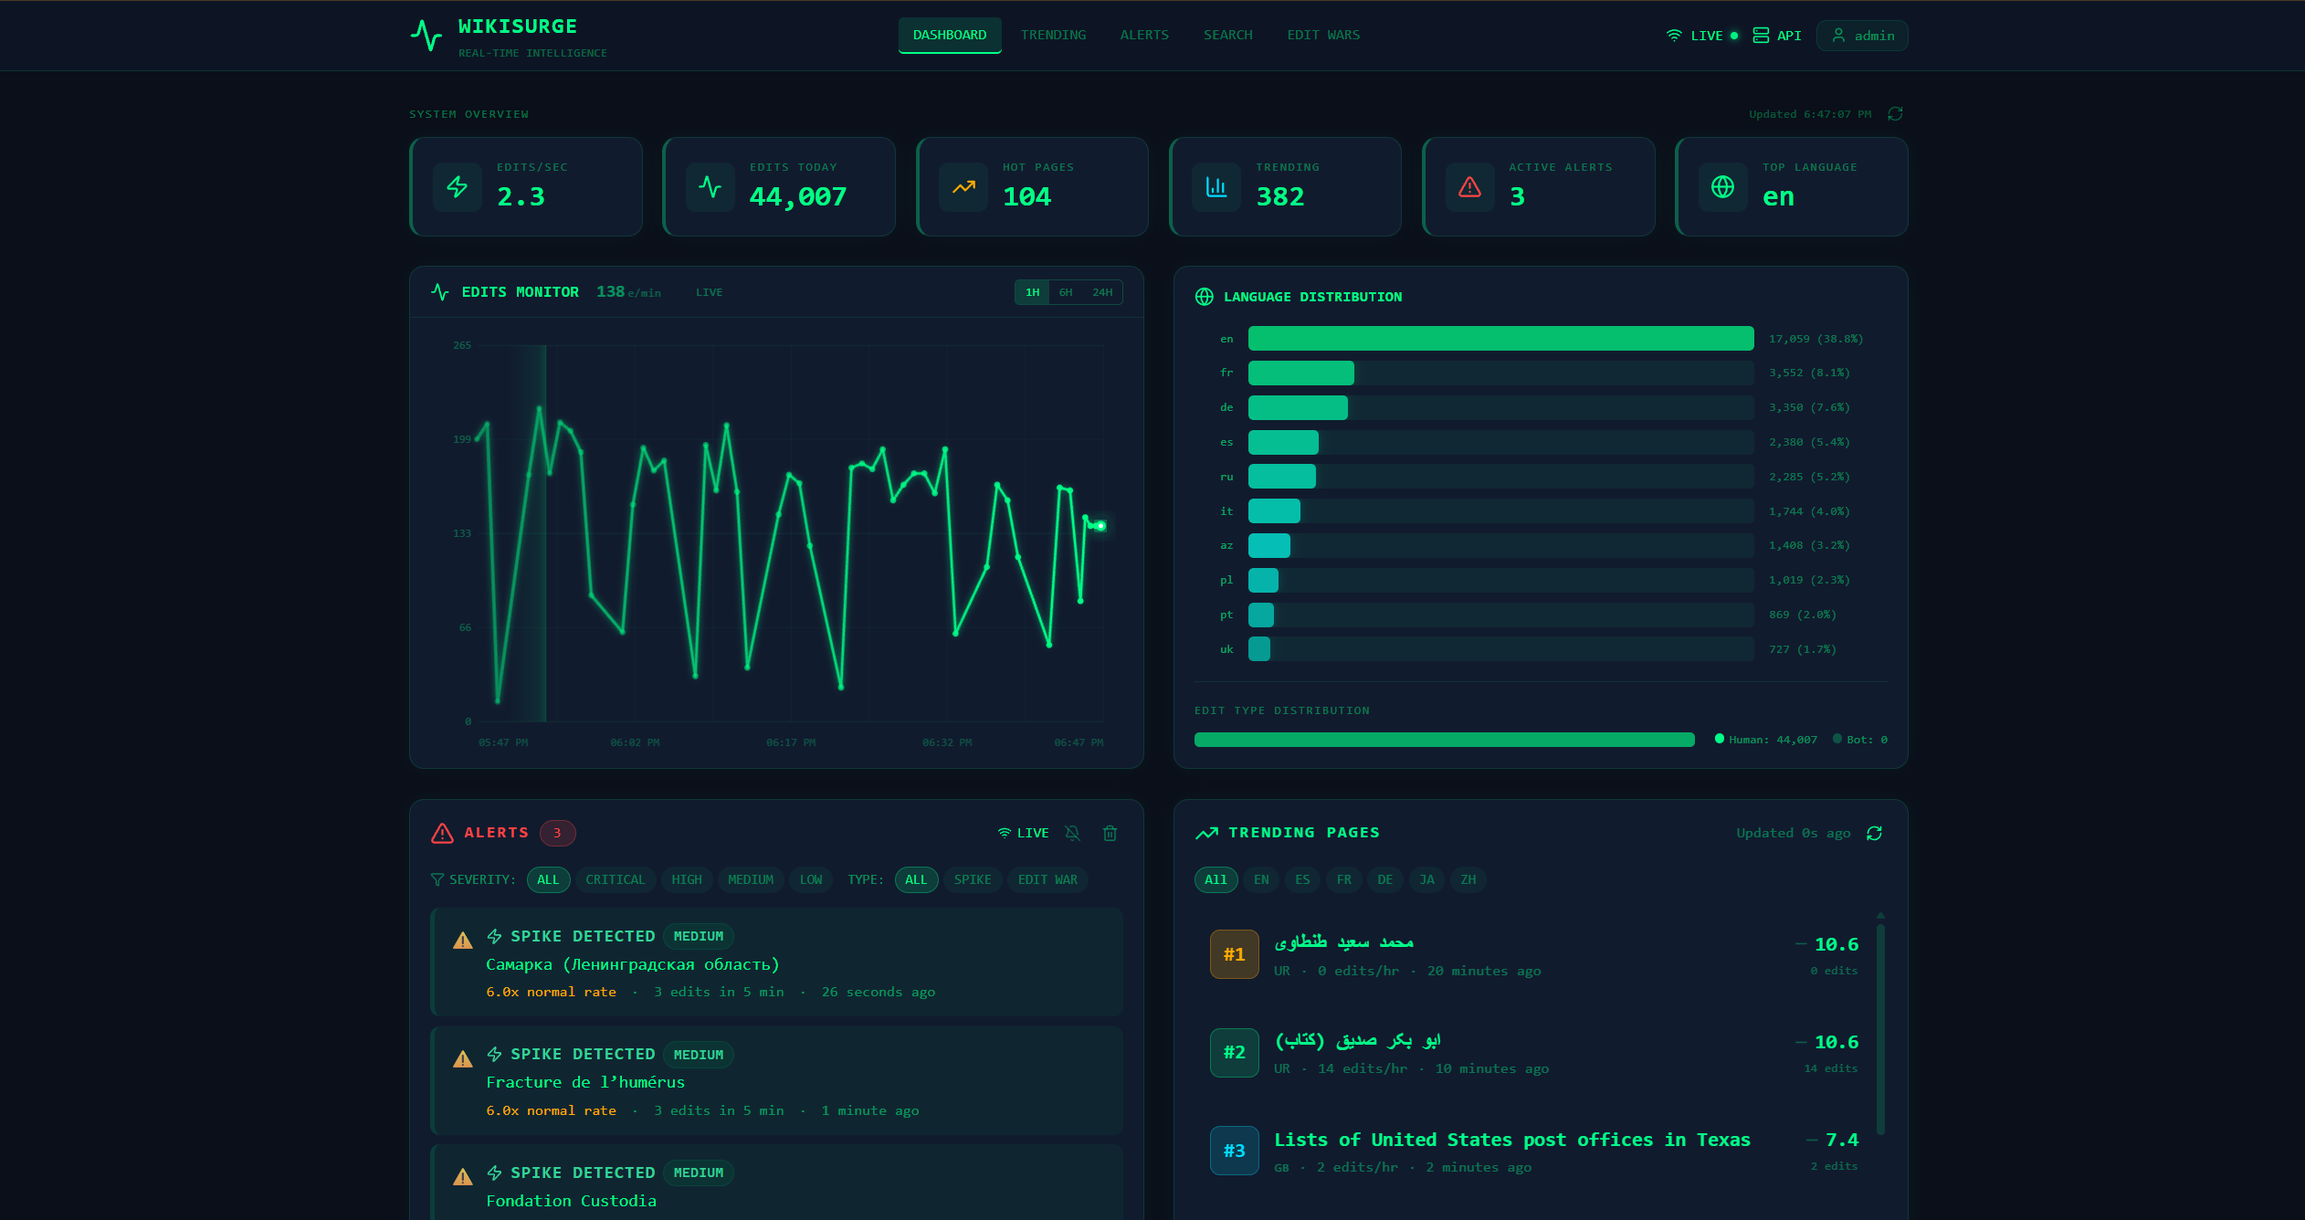
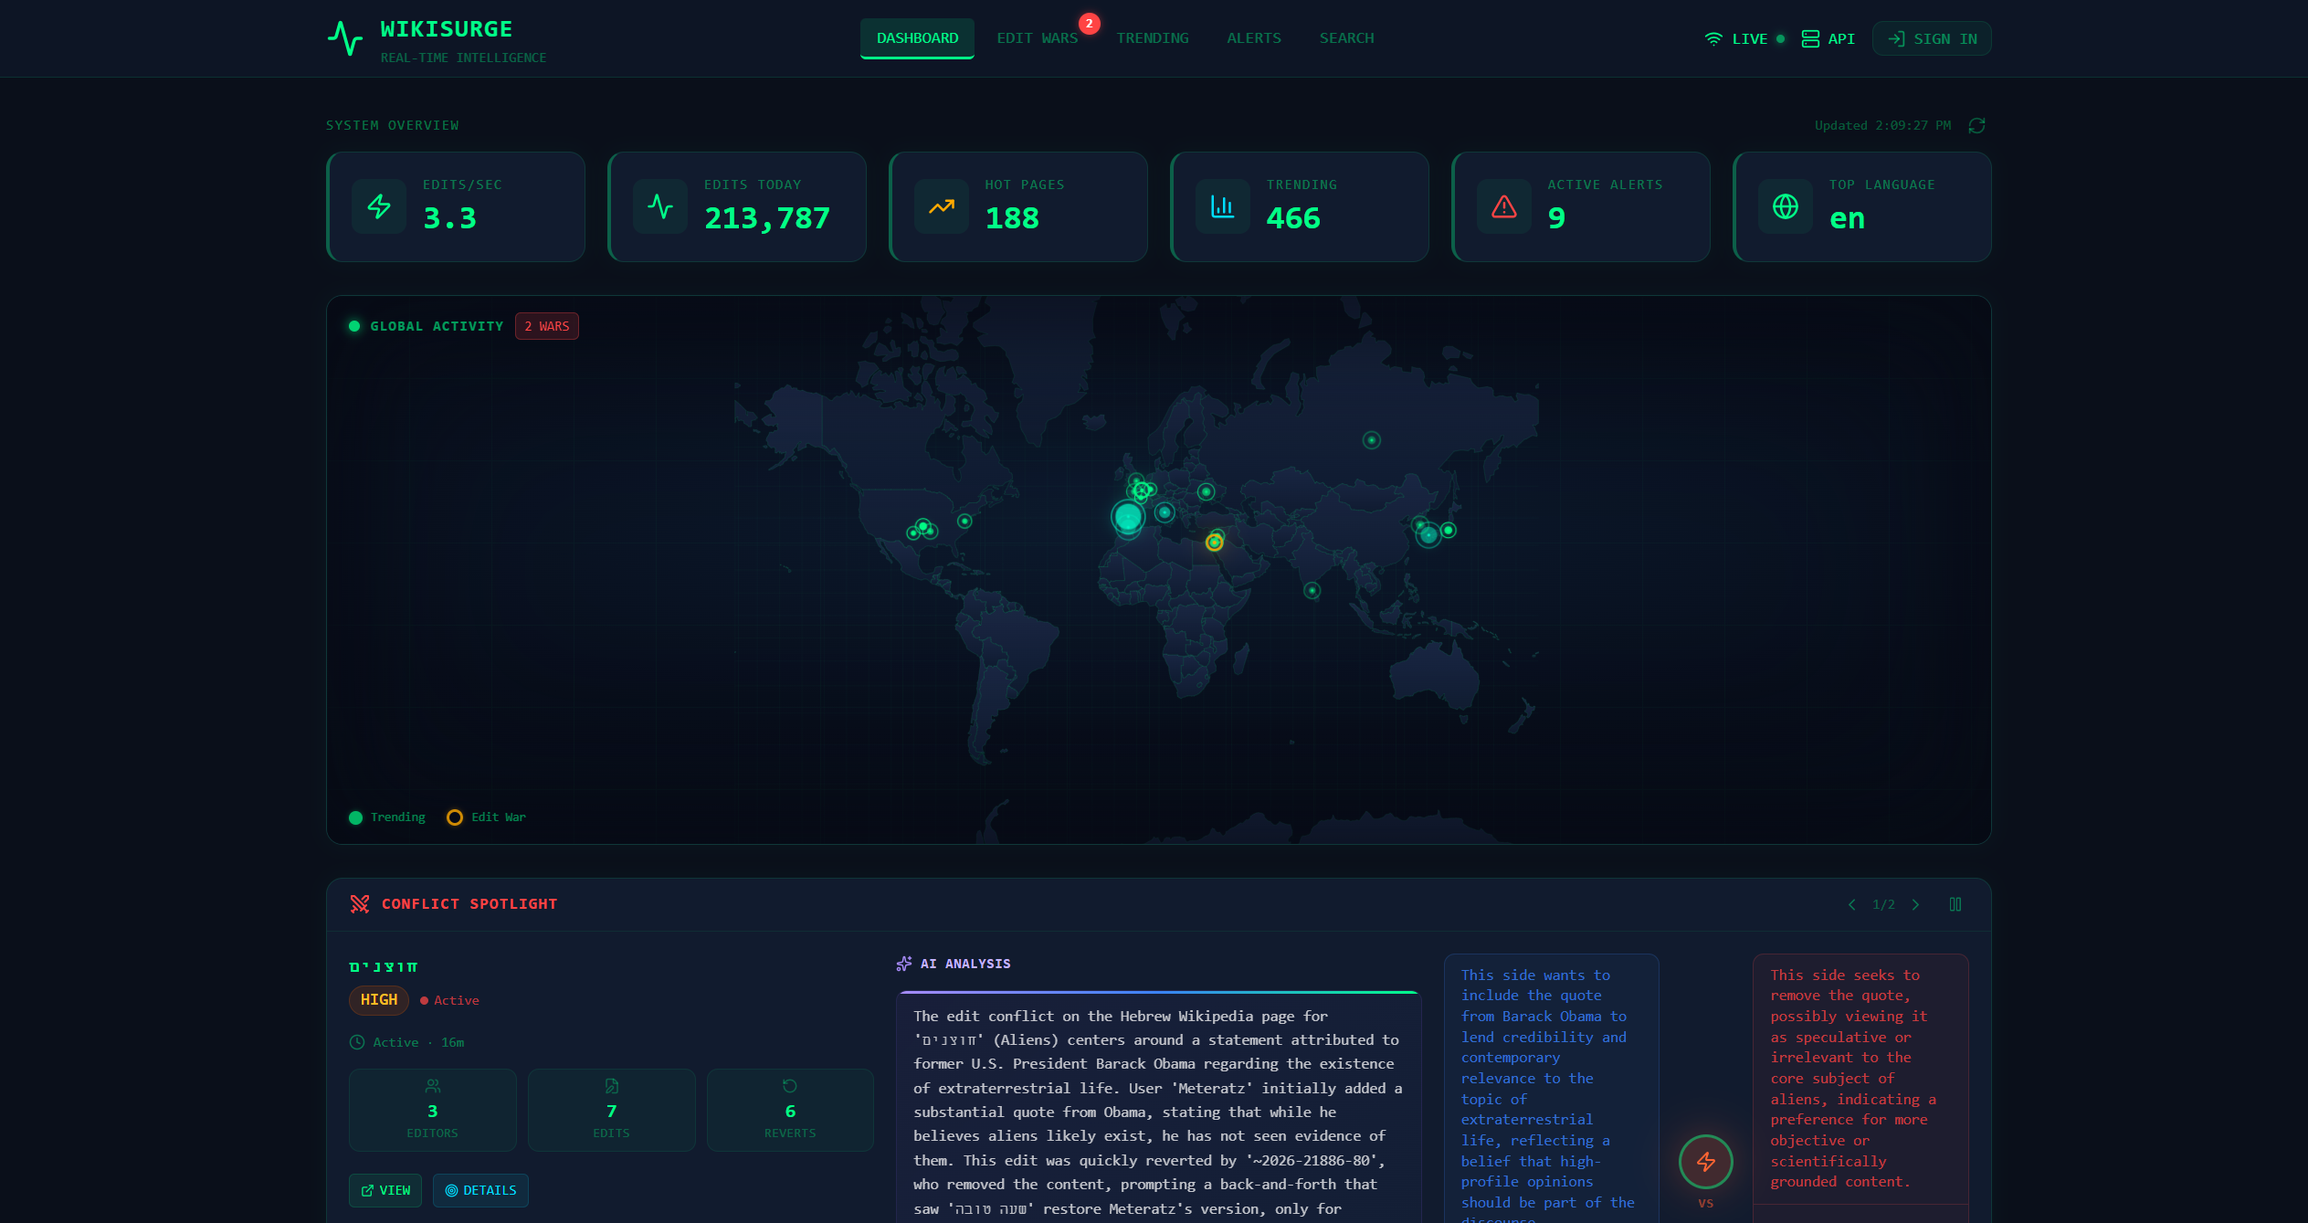
docs: update README with map, resilience, API endpoints, accessibility, and testing sections
- Add Geographic Activity Map feature description
- Add Alert Hub single-subscription fan-out technical decision
- Add Resilience & Graceful Degradation section (circuit breaker, degradation manager)
- Add per-endpoint rate limiting details with Redis sliding window
- Add complete API endpoints reference (collapsible)
- Add Dashboard Layout tab-by-tab breakdown
- Add Accessibility section (ARIA, keyboard nav, semantic HTML)
- Add Testing section (unit, integration, load, chaos, benchmark, resource)
- Expand Features table to 3x2 grid (Edit War Visualization + Resilience rows)
- Update Tech Stack with react-simple-maps, Zustand persistence, lazy loading
- Update Auth & Security with CSP/HSTS, SQL injection detection, body limits
- Update Project Structure with cmd/demo, cmd/preview-email, component tree
- Update copyright to 2025-2026
- Update dashboard screenshot

diff --git a/README.md b/README.md
@@ -14,7 +14,7 @@
 
 **A high-performance streaming pipeline that ingests every Wikipedia edit on Earth in real-time,<br/>detects anomalies, identifies edit wars, and explains conflicts using AI.**
 
-[Dashboard](#-dashboard) · [How It Works](#-how-it-works) · [Architecture](#-architecture) · [Technical Decisions](#-technical-decisions) · [Docs](#-documentation)
+[Dashboard](#-dashboard) · [How It Works](#-how-it-works) · [Architecture](#-architecture) · [Technical Decisions](#-technical-decisions) · [API](#-api-endpoints) · [Docs](#-documentation)
 
 </div>
 
@@ -25,7 +25,7 @@
 <img src="docs/assets/dashboard_img.png" alt="WikiSurge Dashboard" width="800"/>
 </a>
 <br/>
-<sub><b>Live dashboard</b> — real-time edits monitor, language distribution, spike alerts, trending pages, full-text search, and WebSocket-powered live feed · <i>click to expand</i></sub>
+<sub><b>Live dashboard</b> — real-time edits monitor, geographic activity map, language distribution, spike alerts, trending pages, full-text search, and WebSocket-powered live feed · <i>click to expand</i></sub>
 </div>
 
 ---
@@ -40,6 +40,8 @@ This isn't a toy project with a single API call. It's a distributed system with:
 - **Real-time spike detection** using sliding window statistics with Z-score thresholds
 - **Edit war detection** with revert tracking, byte-delta analysis, and timeline reconstruction
 - **AI-powered conflict analysis** that fetches Wikipedia diffs and explains both sides
+- **Geographic activity map** plotting real-time edit hotspots and conflicts worldwide
+- **Resilient architecture** with circuit breakers, graceful degradation, and automatic recovery
 - **Sub-second WebSocket delivery** from Wikipedia edit → user's browser
 - **Deployed on a single 4GB Hetzner VPS** with aggressive memory budgeting
 
@@ -56,6 +58,7 @@ This isn't a toy project with a single API call. It's a distributed system with:
 - Edits/second gauge with historical graph
 - Language distribution across 300+ wikis
 - Hot page tracking with promotion/demotion
+- Global activity map with geographic hotspots
 
 </td>
 <td width="50%">
@@ -65,6 +68,7 @@ This isn't a toy project with a single API call. It's a distributed system with:
 - Edit war detection with revert ratio tracking
 - AI analysis explaining what editors fight about
 - Severity classification (LOW / MEDIUM / HIGH / CRITICAL)
+- Conflict spotlight carousel with auto-rotation
 
 </td>
 </tr>
@@ -73,9 +77,10 @@ This isn't a toy project with a single API call. It's a distributed system with:
 
 **Search & Discovery**
 - Full-text search powered by Elasticsearch
+- Advanced filters: date range, language, username, byte change
+- Autocomplete search suggestions with debounced fetch
 - Trending pages scored by recency-weighted edits
-- Filter by severity, type, language, time range
-- CSV export for further analysis
+- CSV export (search results, edit wars, timelines)
 
 </td>
 <td width="50%">
@@ -84,7 +89,30 @@ This isn't a toy project with a single API call. It's a distributed system with:
 - JWT authentication with bcrypt password hashing
 - Personalized watchlists (track specific pages)
 - Daily/weekly email digests via Resend API
+- Configurable digest content & spike thresholds
 - Admin panel for user management
+
+</td>
+</tr>
+<tr>
+<td width="50%">
+
+**Edit War Visualization**
+- Sides matchup with color-coded position display
+- Editor conflict graph with per-editor stats
+- Historical edit wars browser with filtering & pagination
+- Full edit timeline reconstruction
+- Direct links to Wikipedia editor profiles
+
+</td>
+<td width="50%">
+
+**Resilience & Performance**
+- Circuit breaker pattern (open → half-open → closed)
+- Graceful degradation manager (3 levels)
+- Redis-backed sliding window rate limiting (per-endpoint)
+- In-memory response cache with TTL (10K entry cap)
+- Object pool reuse to reduce GC pressure
 
 </td>
 </tr>
@@ -99,6 +127,18 @@ This isn't a toy project with a single API call. It's a distributed system with:
 <br/>
 <sub>LLM identifies opposing sides, editor roles, content area, severity, and explains the conflict in plain English · <i>click to expand</i></sub>
 </div>
+
+### Geographic Activity Map
+
+The dashboard includes an interactive world map (`react-simple-maps`) that visualizes editing activity in real-time:
+
+- **Hotspots** (green) — regions with high edit activity, sized by volume
+- **Edit war markers** (orange/red) — active conflicts plotted by geographic origin, colored by severity
+- **Click-to-navigate** — clicking a war marker scrolls to the Edit Wars tab with that conflict highlighted
+- **Auto-refresh** — polls the `/api/geo-activity` endpoint every 15 seconds
+- **Responsive** — adapts to desktop, tablet, and mobile viewports with zoom (1×–8×) and pan
+
+The backend maps Wikipedia language editions to geographic centroids and returns hotspot/war coordinates with 30-second response caching.
 
 ---
 
@@ -218,8 +258,10 @@ graph LR
 - **Vite** — build tooling
 - **Tailwind CSS** — cyberpunk UI
 - **Recharts** — real-time graphs
-- **Zustand** — state management
+- **react-simple-maps** — geographic visualization
+- **Zustand** — state management (persisted)
 - **WebSocket** — live data feeds
+- **Lazy loading** — code-split per tab
 
 </td>
 </tr>
@@ -238,8 +280,10 @@ graph LR
 ### Auth & Security
 - **JWT** (HMAC-SHA256) — stateless auth
 - **bcrypt** — password hashing
-- **Rate limiting** — per-IP token bucket
-- **CORS / Helmet** — security headers
+- **Rate limiting** — per-IP sliding window
+- **CORS / CSP / HSTS** — security headers
+- **Request validation** — SQL injection detection
+- **Body limits** — 1 MiB max request size
 
 </td>
 <td valign="top" width="33%">
@@ -324,6 +368,41 @@ WikiSurge uses two different real-time delivery patterns:
 
 Pub/Sub for the feed because missing a few edits is fine — there are ~100/second. Streams for alerts because missing a spike notification is not acceptable.
 
+### Alert Hub — Single-Subscription Fan-Out
+
+A naive approach would have each WebSocket client run its own blocking Redis `XREAD`. With 100 clients, that's 100 blocking calls. Instead, the **Alert Hub** runs a single shared Redis Streams subscription and fans out to all connected clients:
+
+- One goroutine subscribes to both `spikes` and `editwars` streams
+- Alerts are distributed to up to **100 concurrent WebSocket clients** via buffered channels (128 slots)
+- Overflow messages are dropped (not blocked) to prevent a slow client from stalling the fan-out loop
+- Auto-reconnects with exponential backoff; panic recovery with max 5 automatic restarts
+
+### Resilience & Graceful Degradation
+
+The system is designed to keep running even when non-critical components fail:
+
+- **Circuit Breaker** — wraps external calls (Redis, Elasticsearch, LLM). After 5 consecutive failures → circuit opens for 30s → half-open probe → reset. Prevents cascade failures.
+- **Degradation Manager** — monitors component health and automatically adjusts feature flags across three levels:
+  - **None** — all features enabled
+  - **Partial** — disables Elasticsearch indexing and LLM analysis; core pipeline continues
+  - **Severe** — minimal operation, only essential data flows
+- **Retry with Jitter** — exponential backoff with randomized jitter for transient failures
+- Integrated with Prometheus metrics for observability
+
+### Rate Limiting with Per-Endpoint Budgets
+
+Not a single global limit — each endpoint gets a budget matched to its cost:
+
+| Endpoint | Limit | Rationale |
+|----------|-------|-----------|
+| `/api/search` | 100 req/min | Elasticsearch query (expensive) |
+| `/api/trending` | 500 req/min | Redis sorted set read |
+| `/api/stats` | 1000 req/min | Cached, near-zero cost |
+| `/api/alerts` | 500 req/min | Redis stream read |
+| `/api/edit-wars` | 500 req/min | Redis hash + list read |
+
+Implemented as a **Redis-backed sliding window** using sorted sets. Supports IP whitelisting (CIDR + individual), falls open on Redis failure (logs but allows through), and returns `429 Too Many Requests` with proper `Retry-After` headers.
+
 ---
 
 ## Project Structure
@@ -333,29 +412,137 @@ WikiSurge/
 ├── cmd/                          # Service entry points
 │   ├── api/main.go               #   → REST + WebSocket server
 │   ├── ingestor/main.go          #   → SSE consumer + Kafka producer
-│   └── processor/main.go         #   → Kafka consumer + analysis
+│   ├── processor/main.go         #   → Kafka consumer + analysis
+│   ├── demo/main.go              #   → Metrics simulation for testing
+│   └── preview-email/main.go     #   → Email digest HTML preview server
 ├── internal/                     # Core logic (not importable)
-│   ├── api/                      #   HTTP handlers, middleware, WebSocket
+│   ├── api/                      #   HTTP handlers, middleware, WebSocket, Alert Hub
 │   ├── auth/                     #   JWT + bcrypt + middleware
 │   ├── config/                   #   YAML config + feature flags
 │   ├── digest/                   #   Email collection, rendering, scheduling
 │   ├── email/                    #   Resend / SMTP / Log senders
 │   ├── ingestor/                 #   SSE client, filtering, Kafka production
 │   ├── kafka/                    #   Producer, consumer, dead letter queue
-│   ├── llm/                      #   Multi-provider LLM client + analysis
+│   ├── llm/                      #   Multi-provider LLM client + diff fetcher
 │   ├── models/                   #   Edit, User, Document models
 │   ├── monitoring/               #   Prometheus metrics registration
 │   ├── processor/                #   Spike/trending/edit-war/indexer/forwarder
-│   ├── resilience/               #   Circuit breaker, retry, backoff
+│   ├── resilience/               #   Circuit breaker, retry, degradation manager
 │   └── storage/                  #   Redis (hot pages, trending, alerts), ES
 ├── web/                          # React 19 + TypeScript + Tailwind frontend
+│   └── src/components/           #   40+ components organized by feature
+│       ├── Map/                  #     GlobalActivityMap, MapTooltip
+│       ├── EditWars/             #     SidesMatchup, ConflictSpotlight, EditorConflictGraph
+│       ├── Search/               #     AdvancedSearch, SearchSuggestions, Pagination
+│       ├── Alerts/               #     AlertCard, AlertsPanel, SeverityBadge
+│       └── ...                   #     Stats, Trending, LiveFeed, Auth, Settings
 ├── deployments/                  # Dockerfiles + docker-compose (dev & prod)
-├── monitoring/                   # Prometheus, Grafana, Loki configs
-├── scripts/                      # Infrastructure, validation, testing
-├── test/                         # Integration, load, chaos, benchmark tests
-├── configs/                      # Dev + prod YAML configs
+├── monitoring/                   # Prometheus, Grafana dashboards, Loki, Promtail
+├── scripts/                      # Infrastructure, validation, chaos testing
+├── test/                         # Integration, load, chaos, benchmark, resource tests
+├── configs/                      # Dev + prod YAML configs with feature flags
 └── docs/                         # Comprehensive documentation
 ```
+
+---
+
+## API Endpoints
+
+<details>
+<summary><b>Click to expand full API reference</b></summary>
+
+### Health
+
+| Method | Endpoint | Description |
+|--------|----------|-------------|
+| `GET` | `/health` | Detailed component health (Redis, ES, Kafka) |
+| `GET` | `/health/live` | Kubernetes liveness probe |
+| `GET` | `/health/ready` | Kubernetes readiness probe |
+
+### Data
+
+| Method | Endpoint | Description |
+|--------|----------|-------------|
+| `GET` | `/api/trending` | Trending pages (supports `limit`, `language` filters) |
+| `GET` | `/api/stats` | Platform-wide statistics |
+| `GET` | `/api/alerts` | Spike & edit-war alerts (`limit`, `offset`, `since`, `severity`, `type`) |
+| `GET` | `/api/edit-wars` | Active and resolved edit wars (`limit`, `active`) |
+| `GET` | `/api/edit-wars/analysis` | LLM-generated conflict analysis for a specific war |
+| `GET` | `/api/edit-wars/timeline` | Raw edit timeline for a specific war |
+| `GET` | `/api/timeline` | Historical edits timeline (`duration` parameter) |
+| `GET` | `/api/search` | Full-text search (`q`, `limit`, `offset`, `from`, `to`, `language`, `bot`) |
+| `GET` | `/api/geo-activity` | Geographic activity map data (hotspots + edit wars) |
+
+### WebSocket
+
+| Endpoint | Pattern | Description |
+|----------|---------|-------------|
+| `/ws/feed` | Redis Pub/Sub | Live edit stream with client-side filters |
+| `/ws/alerts` | Redis Streams | Guaranteed alert delivery with resume support |
+
+### Auth & User
+
+| Method | Endpoint | Auth | Description |
+|--------|----------|------|-------------|
+| `POST` | `/api/auth/register` | — | Create account |
+| `POST` | `/api/auth/login` | — | Get JWT token |
+| `GET` | `/api/user/profile` | JWT | User info |
+| `GET` | `/api/user/preferences` | JWT | Digest settings |
+| `PUT` | `/api/user/preferences` | JWT | Update digest settings |
+| `GET` | `/api/user/watchlist` | JWT | Tracked pages |
+| `PUT` | `/api/user/watchlist` | JWT | Update watchlist (max 100 pages) |
+| `GET` | `/api/digest/unsubscribe` | Token | One-click email unsubscribe |
+
+### Admin
+
+| Method | Endpoint | Auth | Description |
+|--------|----------|------|-------------|
+| `GET` | `/api/admin/users` | Admin | List all users |
+| `DELETE` | `/api/admin/users/{id}` | Admin | Delete user |
+
+</details>
+
+---
+
+## Dashboard Layout
+
+The frontend is organized as a tab-based single-page application:
+
+| Tab | Components |
+|-----|------------|
+| **Dashboard** | Stats overview · Geographic activity map · Conflict spotlight carousel · Edits timeline chart · Trending list · Alerts panel |
+| **Edit Wars** | Active wars list · Historical wars browser · Sides matchup · Editor conflict graph · Timeline view · CSV export |
+| **Trending** | Trending pages with recency-weighted scores |
+| **Alerts** | Spike and edit-war alerts with severity filtering |
+| **Search** | Full-text search · Advanced filters modal · Autocomplete suggestions · Pagination · CSV export |
+| **Settings** | User preferences · Digest configuration · Admin panel |
+
+Each tab is lazy-loaded with Suspense boundaries and skeleton loading states. WebSocket connection status and API health are always visible in the header.
+
+---
+
+## Accessibility
+
+- **Skip-to-content link** for keyboard users
+- **ARIA labels** on all interactive elements (buttons, modals, dropdowns)
+- **Keyboard navigation** — tab switching, carousel control (arrow keys), modal dismiss (Escape)
+- **Semantic HTML** — `<header>`, `<main>`, `<nav>`, `<footer>`, `<section>`, `<article>`
+- **`aria-live="polite"`** on status indicators (connection state, loading)
+- **Error boundaries** with `role="alert"` for accessible error states
+
+---
+
+## Testing
+
+| Category | Location | What It Covers |
+|----------|----------|---------------|
+| **Unit** | `internal/*/…_test.go` | API handlers, rate limiter, alert hub, resilience, optimizations |
+| **Integration** | `test/integration/` | End-to-end spike detection, processor pipeline validation |
+| **Load** | `test/load/` | WebSocket connection scaling, Kafka sustained throughput, SSE simulation |
+| **Chaos** | `test/chaos/` | Failure injection — Redis/ES/Kafka outage recovery |
+| **Benchmark** | `test/benchmark/` | Performance benchmarks for hot paths |
+| **Resource** | `test/resource/` | Memory limits, stale data cleanup, resource constraint behavior |
+| **Scripts** | `scripts/validate-*.sh` | Hot page tracking, spike detection, trending algorithm validation |
 
 ---
 
@@ -376,7 +563,7 @@ WikiSurge/
 
 ## License
 
-Copyright © 2025 Agnik. All Rights Reserved. See [LICENSE](LICENSE) for details.
+Copyright © 2025–2026 Agnik. All Rights Reserved. See [LICENSE](LICENSE) for details.
 
 Wikipedia content accessed through the APIs remains under [CC BY-SA 4.0](https://creativecommons.org/licenses/by-sa/4.0/).
 
